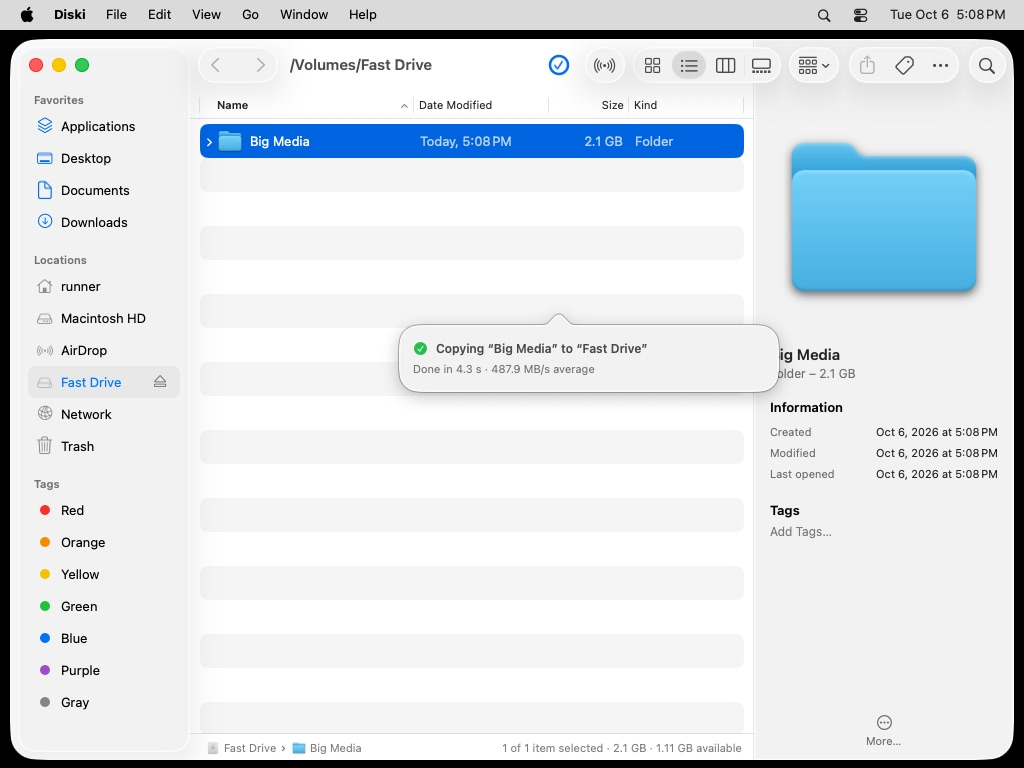
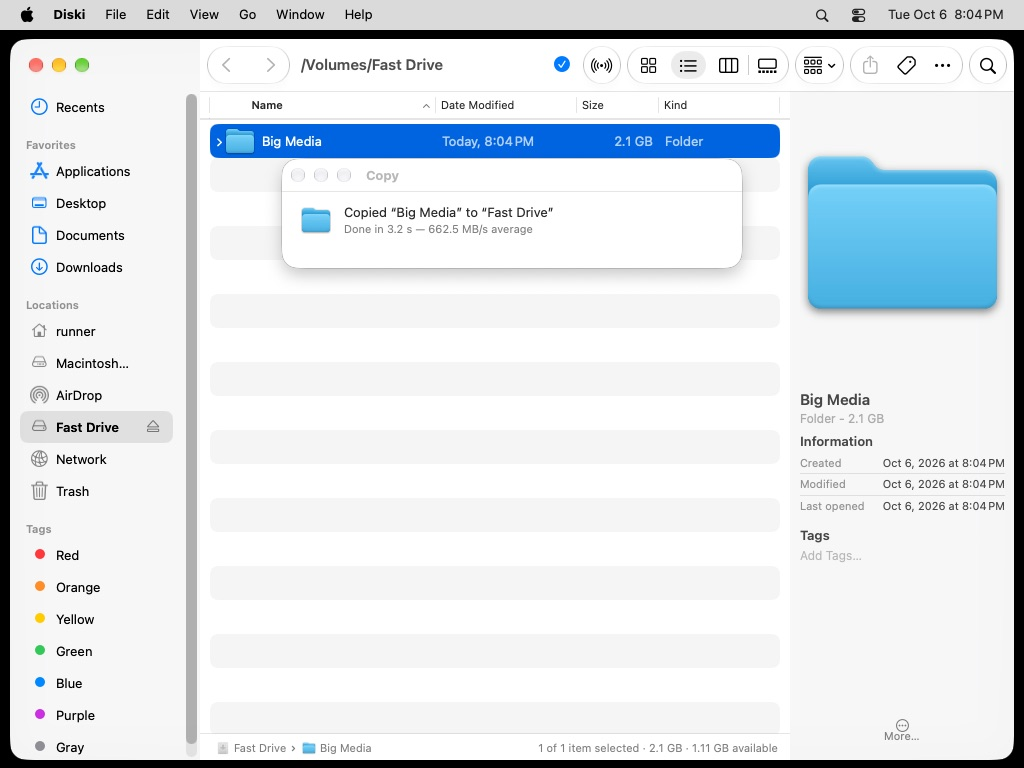
README and screenshots for the native panels on macOS 27; remove the temporary CI ref
The workflow deletes the screenshots ref once; the next commit takes that
step out again and returns the token to read-only.

Claude-Session: https://claude.ai/code/session_01XWvxo51B6PAX5o6EpJegud

diff --git a/README.md b/README.md
@@ -23,26 +23,26 @@ Everything Finder does — and the things it should have done all along — with
 | Copying between drives | No "Preparing…" phase: folders are scanned while copying starts, files stream through **parallel workers**, big files bypass the page cache, sparse files stay sparse, and metadata is applied last. |
 | Folder sizes | Calculated in the background by a parallel, allocation-free scanner, shown right in the list and kept up to date while files change. |
 
-Measured on GitHub's (virtualized) macOS 26 runner by the CI for this repository:
+Measured on GitHub's (virtualized) macOS 27 runner by the CI for this repository:
 
 | | |
 | --- | --- |
-| Listing a folder of 3,000 files | **4.7 ms** — 7.4× faster than `FileManager` (34.7 ms) |
+| Listing a folder of 3,000 files | **3.7 ms** — 6.1× faster than `FileManager` (22.6 ms) |
 | Copying a 2.1 GB folder on the same drive | **0.01 s** — instant APFS clone |
-| Copying the same folder to another APFS volume (a RAM disk) | **4.3 s** — 488 MB/s (390–665 MB/s across runs) |
+| Copying the same folder to another APFS volume (a RAM disk) | **1.5 s** — 1.4 GB/s (0.96–1.4 GB/s across runs) |
 
 Settings › Speed has a built-in speed test that compares Diski's folder reading with the system's on your Mac.
 
 <p align="center">
-  <img src="docs/screenshots/clone.jpg" alt="An instant APFS clone of a 2.1 GB folder" width="440">
-  <img src="docs/screenshots/copy.jpg" alt="Copying 2.1 GB to another drive" width="440">
+  <img src="docs/screenshots/clone.jpg" alt="An instant APFS clone of a 2.1 GB folder, confirmed in a native popover" width="440">
+  <img src="docs/screenshots/copy.jpg" alt="Finder's Copy window after copying 2.1 GB to another drive" width="440">
 </p>
 
 ## Everything Finder does
 
 - **Four views** — Icons, List (with inline folder disclosure), Columns, and Gallery with a live Quick Look preview and filmstrip.
 - **Liquid Glass toolbar** — back/forward, AirDrop, view switcher, sort & view options, share, tags, actions and search, exactly where you expect them.
-- **Sidebar** — Favorites (drag folders in, reorder, remove), iCloud Drive, Home, volumes with eject buttons and free-space tooltips, AirDrop, Network, Trash and Tags.
+- **Sidebar** — Finder's own, edge to edge on macOS 27: Recents, Favorites (drag folders in, reorder, remove), iCloud Drive, Home, volumes with eject buttons and free-space tooltips, AirDrop, Network, Trash and Tags.
 - **Preview pane** — the native inspector pane: big preview, kind & size, created / modified / last opened, dimensions, duration, editable tags, and a "More…" section with permissions, version, where-from and exact sizes.
 - **Get Info** (⌘I) — a native Info window per item: General, More Info, Name & Extension (rename, hide extension), Open with (and Change All…), Preview, Sharing & Permissions, Locked and tags.
 - **Path bar and item info** — clickable path, item count, selection size and free space.
@@ -60,7 +60,7 @@ Settings › Speed has a built-in speed test that compares Diski's folder readin
 - **Go to Folder** with live path completion and fuzzy matching on recent folders (⇧⌘G).
 - **New Text File** (⌥⌘N), **Copy Path** (⌥⌘C), **Open in Terminal** (Terminal, iTerm, Ghostty or Warp), **Make Symbolic Link**.
 - **Paste images and text as files** — copy a screenshot, press ⌘V in a folder, get `Pasted Image.png`.
-- **Smarter conflicts** — a native alert with Keep Both, Replace, Merge, Skip or Stop, Apply to All and a side-by-side comparison ("Newer", "Larger"). Replaced items go to the Trash, so nothing is ever lost.
+- **Smarter conflicts** — a native alert with Keep Both, Replace, Merge, Skip or Stop, Apply to All, and both items compared ("newer", "larger"). Replaced items go to the Trash, so nothing is ever lost.
 - **Progress you can trust** — Finder's Copy window with live speed, time remaining, pause/resume and stop for every operation, a progress indicator in the toolbar, and a short native confirmation for operations too quick to show a window ("Done in 0.01 s — instant APFS clone").
 - **Folder sizes** in the list, hidden files with one shortcut (⇧⌘.), keep folders on top, row density, full path in the title.
 
@@ -78,6 +78,14 @@ Settings › Speed has a built-in speed test that compares Diski's folder readin
   <tr>
     <td><img src="docs/screenshots/dual.jpg" alt="Dual pane"><br><sub>Dual pane (⌘\)</sub></td>
     <td><img src="docs/screenshots/search.jpg" alt="Instant filter"><br><sub>Instant filter with search scopes</sub></td>
+  </tr>
+  <tr>
+    <td><img src="docs/screenshots/getinfo.jpg" alt="Get Info window"><br><sub>Get Info (⌘I)</sub></td>
+    <td><img src="docs/screenshots/viewoptions.jpg" alt="View Options panel"><br><sub>View Options (⌘J)</sub></td>
+  </tr>
+  <tr>
+    <td><img src="docs/screenshots/conflict.jpg" alt="Conflict alert"><br><sub>Native conflict alert, with the Copy window behind it</sub></td>
+    <td><img src="docs/screenshots/sidebar-sizes.jpg" alt="Sidebar sizes"><br><sub>The sidebar follows the small, medium and large sidebar sizes</sub></td>
   </tr>
 </table>
 
